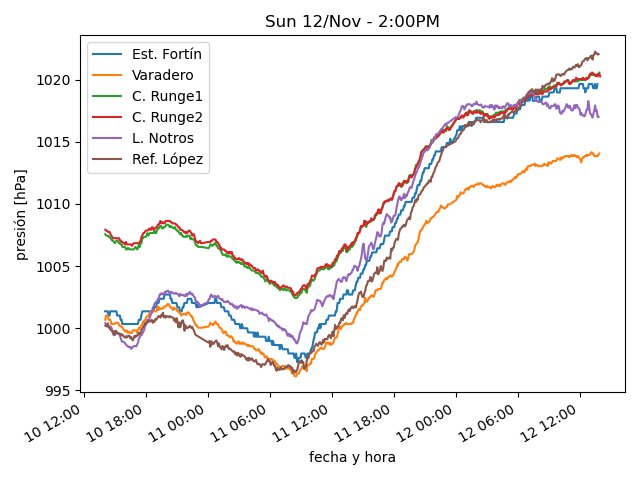
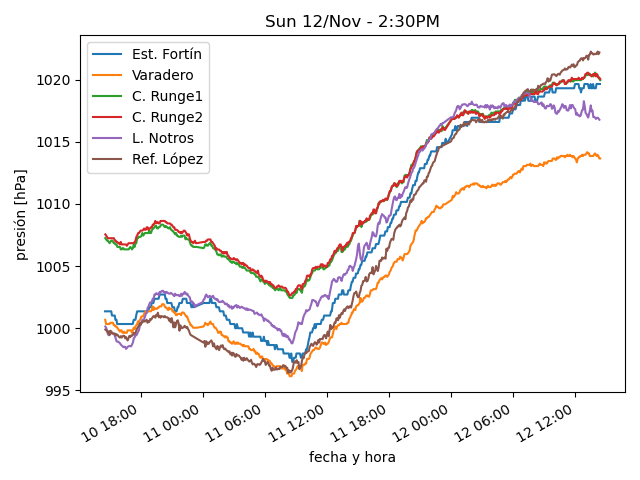
actualiza datos

diff --git a/estaciones/estacion6.html b/estaciones/estacion6.html
@@ -18,37 +18,37 @@
     </tr>
     <tr>
      <td class="stats_data">
-      1:50PM
+      2:20PM
      </td>
     </tr>
     <tr>
      <td class="stats_data">
-      -1.8⁰C
+      -2.2⁰C
      </td>
     </tr>
     <tr>
      <td class="stats_data">
-      -3.7⁰C
+      -4.5⁰C
      </td>
     </tr>
     <tr>
      <td class="stats_data">
-      87.0%
+      84.0%
      </td>
     </tr>
     <tr>
      <td class="stats_data">
-      1023.43hPa
+      1023.57hPa
      </td>
     </tr>
     <tr>
      <td class="stats_data">
-      6.4/25.7 km/hr E
+      12.9/27.4 km/hr SE
      </td>
     </tr>
     <tr>
      <td class="stats_data">
-      1.27 / 0.76 mm
+      1.52 / 0.51 mm
      </td>
     </tr>
     <tr>
@@ -58,7 +58,7 @@
     </tr>
     <tr>
      <td class="stats_data">
-      896.0 W/m²
+      879.0 W/m²
      </td>
     </tr>
    </tbody>

diff --git a/estaciones/estacion2.html b/estaciones/estacion2.html
@@ -18,32 +18,32 @@
     </tr>
     <tr>
      <td class="stats_data">
-      1:54PM
+      2:24PM
      </td>
     </tr>
     <tr>
      <td class="stats_data">
-      6.0⁰C
+      6.6⁰C
      </td>
     </tr>
     <tr>
      <td class="stats_data">
-      0.9⁰C
+      1.1⁰C
      </td>
     </tr>
     <tr>
      <td class="stats_data">
-      69.7%
+      68.3%
      </td>
     </tr>
     <tr>
      <td class="stats_data">
-      1023.54hPa
+      1023.13hPa
      </td>
     </tr>
     <tr>
      <td class="stats_data">
-      34.7/39.8 km/hr NW
+      35.4/41.8 km/hr NW
      </td>
     </tr>
     <tr>
@@ -53,12 +53,12 @@
     </tr>
     <tr>
      <td class="stats_data">
-      9.0
+      8.0
      </td>
     </tr>
     <tr>
      <td class="stats_data">
-      1011.1 W/m²
+      917.5 W/m²
      </td>
     </tr>
    </tbody>

diff --git a/estaciones/estacion4.html b/estaciones/estacion4.html
@@ -18,32 +18,32 @@
     </tr>
     <tr>
      <td class="stats_data">
-      1:59PM
+      2:24PM
      </td>
     </tr>
     <tr>
      <td class="stats_data">
-      5.6⁰C
+      7.4⁰C
      </td>
     </tr>
     <tr>
      <td class="stats_data">
-      -1.4⁰C
+      -1.2⁰C
      </td>
     </tr>
     <tr>
      <td class="stats_data">
-      60.7%
+      54.2%
      </td>
     </tr>
     <tr>
      <td class="stats_data">
-      1017.24hPa
+      1017.03hPa
      </td>
     </tr>
     <tr>
      <td class="stats_data">
-      2.8/3.9 km/hr S
+      2.0/3.3 km/hr WSW
      </td>
     </tr>
     <tr>
@@ -53,12 +53,12 @@
     </tr>
     <tr>
      <td class="stats_data">
-      3.0
+      10.0
      </td>
     </tr>
     <tr>
      <td class="stats_data">
-      330.8 W/m²
+      1100.5 W/m²
      </td>
     </tr>
    </tbody>

diff --git a/estaciones/estacion3.html b/estaciones/estacion3.html
@@ -18,32 +18,32 @@
     </tr>
     <tr>
      <td class="stats_data">
-      1:54PM
+      2:24PM
      </td>
     </tr>
     <tr>
      <td class="stats_data">
-      5.1⁰C
+      6.7⁰C
      </td>
     </tr>
     <tr>
      <td class="stats_data">
-      -0.9⁰C
+      -1.4⁰C
      </td>
     </tr>
     <tr>
      <td class="stats_data">
-      65.5%
+      56.2%
      </td>
     </tr>
     <tr>
      <td class="stats_data">
-      1008.84hPa
+      1008.23hPa
      </td>
     </tr>
     <tr>
      <td class="stats_data">
-      6.1/8.9 km/hr WNW
+      6.6/10.2 km/hr W
      </td>
     </tr>
     <tr>
@@ -53,12 +53,12 @@
     </tr>
     <tr>
      <td class="stats_data">
-      2.0
+      9.0
      </td>
     </tr>
     <tr>
      <td class="stats_data">
-      229.4 W/m²
+      836.8 W/m²
      </td>
     </tr>
    </tbody>

diff --git a/estaciones/estacion1.html b/estaciones/estacion1.html
@@ -18,22 +18,22 @@
     </tr>
     <tr>
      <td class="stats_data">
-      1:43PM
+      2:23PM
      </td>
     </tr>
     <tr>
      <td class="stats_data">
-      7.1⁰C
+      7.8⁰C
      </td>
     </tr>
     <tr>
      <td class="stats_data">
-      -3.1⁰C
+      -2.8⁰C
      </td>
     </tr>
     <tr>
      <td class="stats_data">
-      48.5%
+      47.0%
      </td>
     </tr>
     <tr>
@@ -43,7 +43,7 @@
     </tr>
     <tr>
      <td class="stats_data">
-      20.1/37.0 km/hr W
+      15.3/33.0 km/hr W
      </td>
     </tr>
     <tr>
@@ -53,12 +53,12 @@
     </tr>
     <tr>
      <td class="stats_data">
-      6.5
+      6.1
      </td>
     </tr>
     <tr>
      <td class="stats_data">
-      983.0 W/m²
+      974.0 W/m²
      </td>
     </tr>
    </tbody>

diff --git a/estaciones/estacion5.html b/estaciones/estacion5.html
@@ -18,12 +18,12 @@
     </tr>
     <tr>
      <td class="stats_data">
-      1:50PM
+      2:20PM
      </td>
     </tr>
     <tr>
      <td class="stats_data">
-      9.7⁰C
+      10.4⁰C
      </td>
     </tr>
     <tr>
@@ -33,17 +33,17 @@
     </tr>
     <tr>
      <td class="stats_data">
-      59.0%
+      56.0%
      </td>
     </tr>
     <tr>
      <td class="stats_data">
-      1019.57hPa
+      1019.34hPa
      </td>
     </tr>
     <tr>
      <td class="stats_data">
-      0.0/3.5 km/hr N
+      0.0/2.6 km/hr N
      </td>
     </tr>
     <tr>
